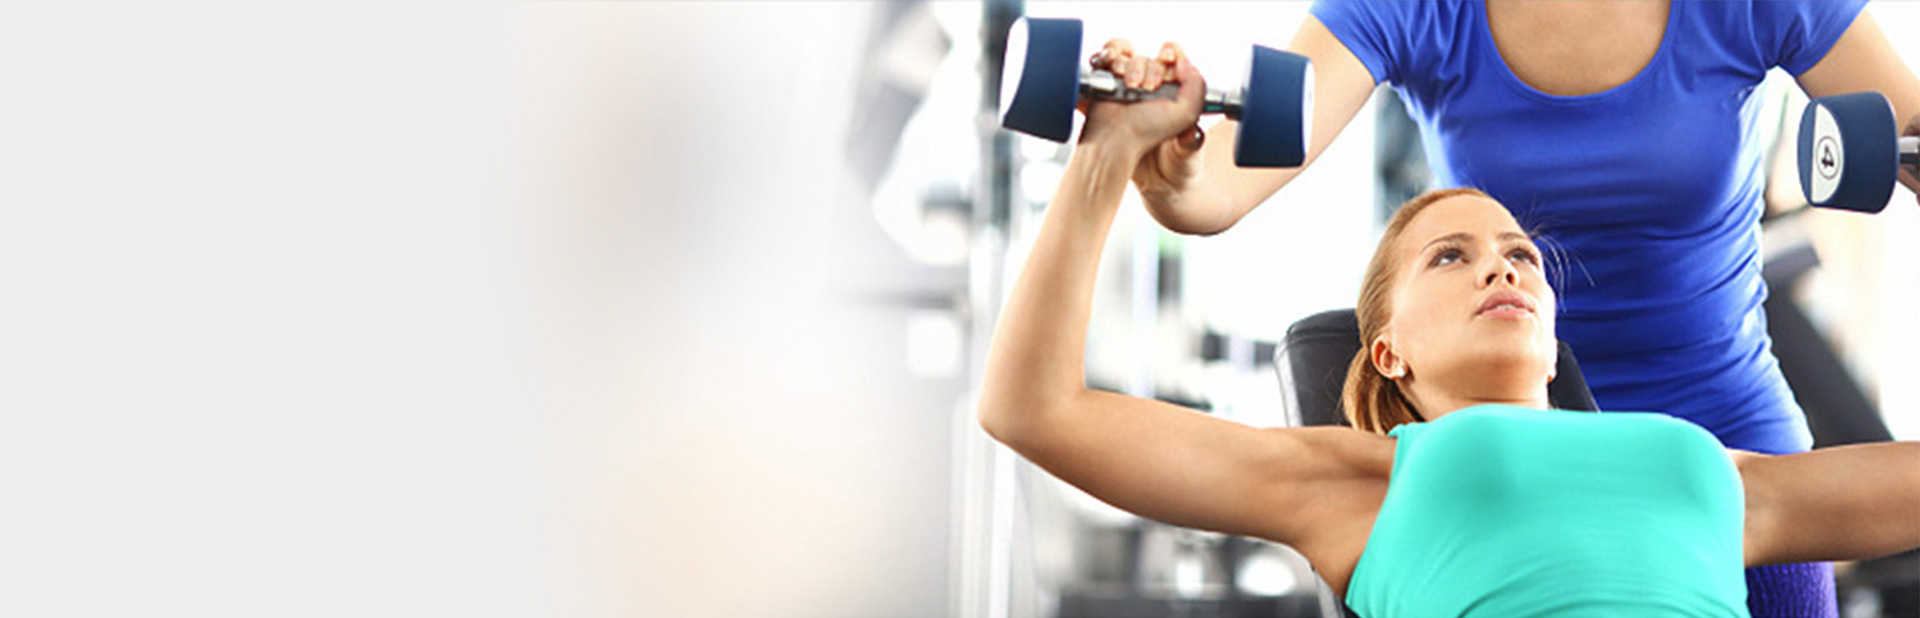
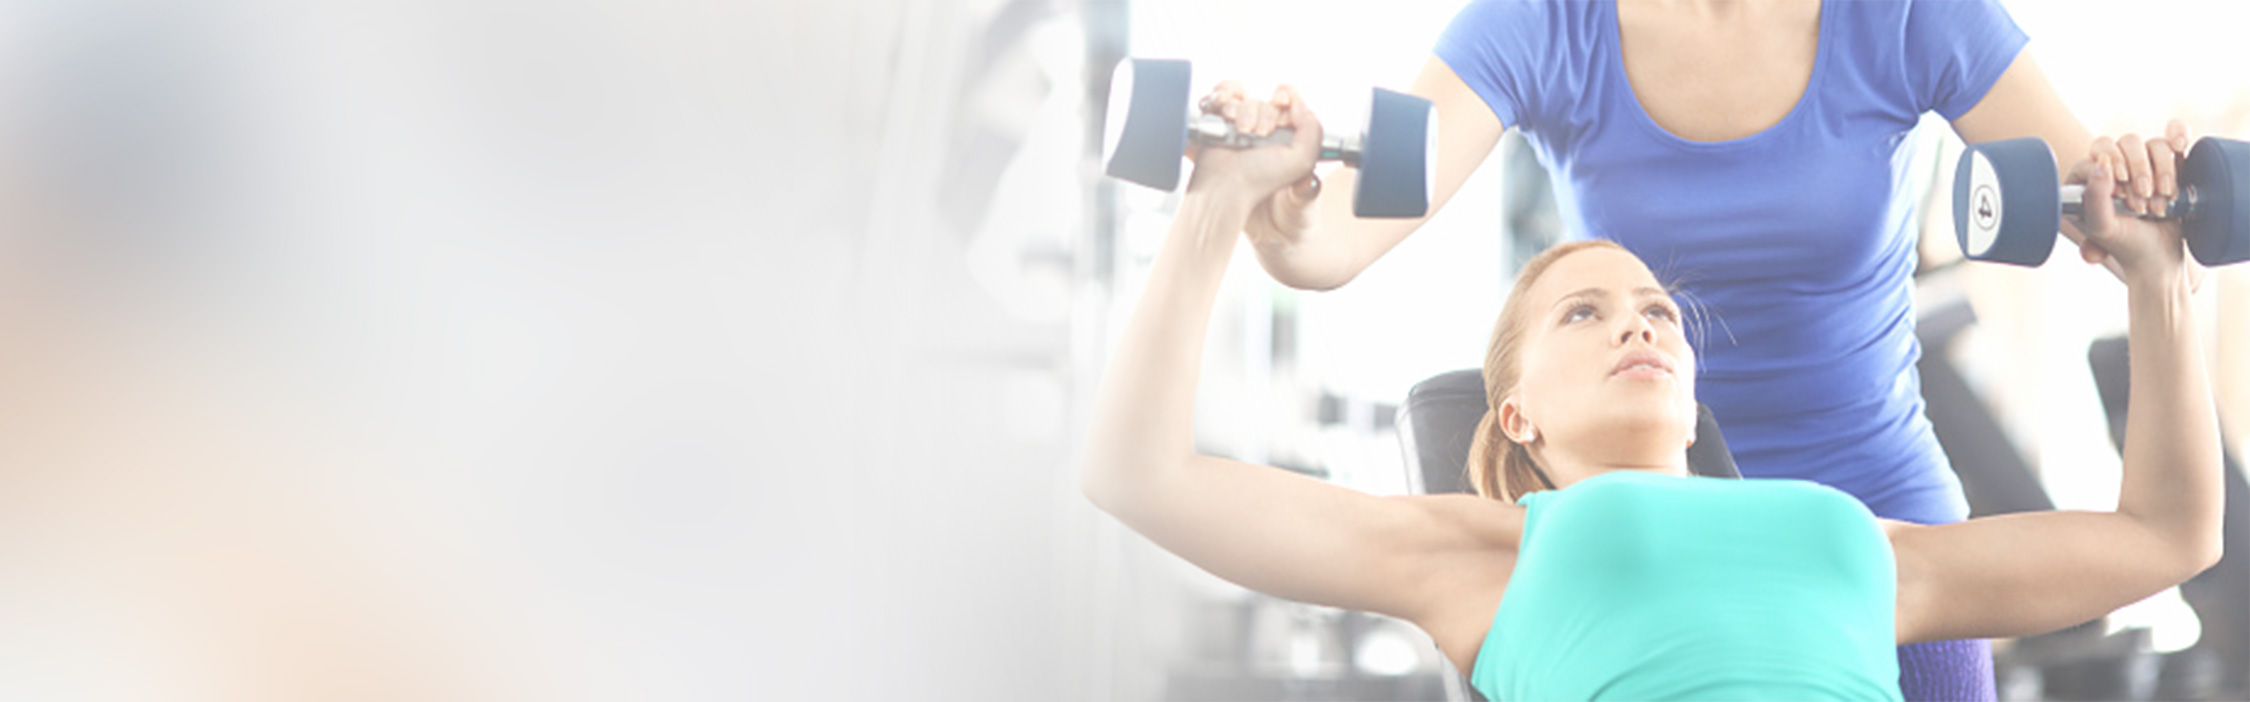
changes to about header

diff --git a/wwwroot/css/style.css b/wwwroot/css/style.css
@@ -602,34 +602,28 @@ margin-bottom: 138px;
 
 
 .banner_bg {
-    background: url(../img/desktop/header_about.jpg) no-repeat;
-  width: 100%;
-  height: 600px;
-  background-position: top 0 right 0;
+  background: url(../img/desktop/header_about.jpg) no-repeat;
+  height: 480px;
+  background-size:cover;
+  background-position: top -20px right 0px;
 }
 
-.banner_bg  img {
+.banner_bg img {
   width:100%;
   height: auto;
 }
 
-#about_header .headline {
-    padding-top: 48px;
-    padding-left: 48px;
+.headline {
+    margin-top: 88px;
 }
 
 #about_header .headline h1 {
-    font-size: 36px;
-    line-height: 36px;
-        padding-top: 32px;
-    padding-left: 0;
-    padding-right: 80px;
+    font-size: 50px;
+    line-height: 52px;
     text-align: left;
 }
 
 #about_header .headline h2 {
-    padding-left:0;
-        padding-right: 80px;
         text-align: left;
 }
 

diff --git a/wwwroot/find-physicians.php b/wwwroot/find-physicians.php
@@ -32,11 +32,11 @@
 		</div>
 
 	<!-- Header================================================== -->
-		<div id="about_header">
-    		<div class="container-fluid">
+		<div id="about_header" class="banner_bg">
+    		<div class="container-fluid ">
     			<div class="row">
-					<div class="banner_bg col-lg-12 col-md-12 col-sm-12 col-xs-12">
-						<div class="headline col-lg-6 col-md-6 col-sm-6 col-xs-6">
+					<div class="col-lg-12 col-md-12 col-sm-12 col-xs-12">
+						<div class="headline col-lg-9 col-md-8 col-sm-6 col-xs-6">
 							<h1>Find a Physician in your area!</h1>
 							<h2>SpaceBander<sup>&reg;</sup> is inexpensive and completely covered by all insurance companies</h2>
 						</div>
@@ -47,7 +47,7 @@
 
 	<!-- Header================================================== -->
 
-		<!-- content ================================================== -->
+	<!-- content ================================================== -->
 		<div id="find-physicians" class="content green">
     		<div class="container-fluid">
     			<div class="row">

diff --git a/wwwroot/about.php b/wwwroot/about.php
@@ -34,9 +34,9 @@
     		<div class="container-fluid ">
     			<div class="row">
 					<div class="col-lg-12 col-md-12 col-sm-12 col-xs-12">
-						<div class="headline col-lg-6 col-md-6 col-sm-6 col-xs-6">
+						<div class="headline col-lg-9 col-md-8 col-sm-6 col-xs-6">
 							<h1>Say Hello to SpaceBander<sup>&reg;</sup> and Goodbye to your Hemorrhoids</h1>
-							<h2>Permanently eliminate your hemorrhoids in less than 2 minutes with the safe, effective, and painless SpaceBander®</h2>
+							<h2>Permanently eliminate your hemorrhoids in less than 2 minutes with the safe, effective, and painless SpaceBander<sup>&reg;</sup></h2>
 						</div>
 					</div>
 				</div>
